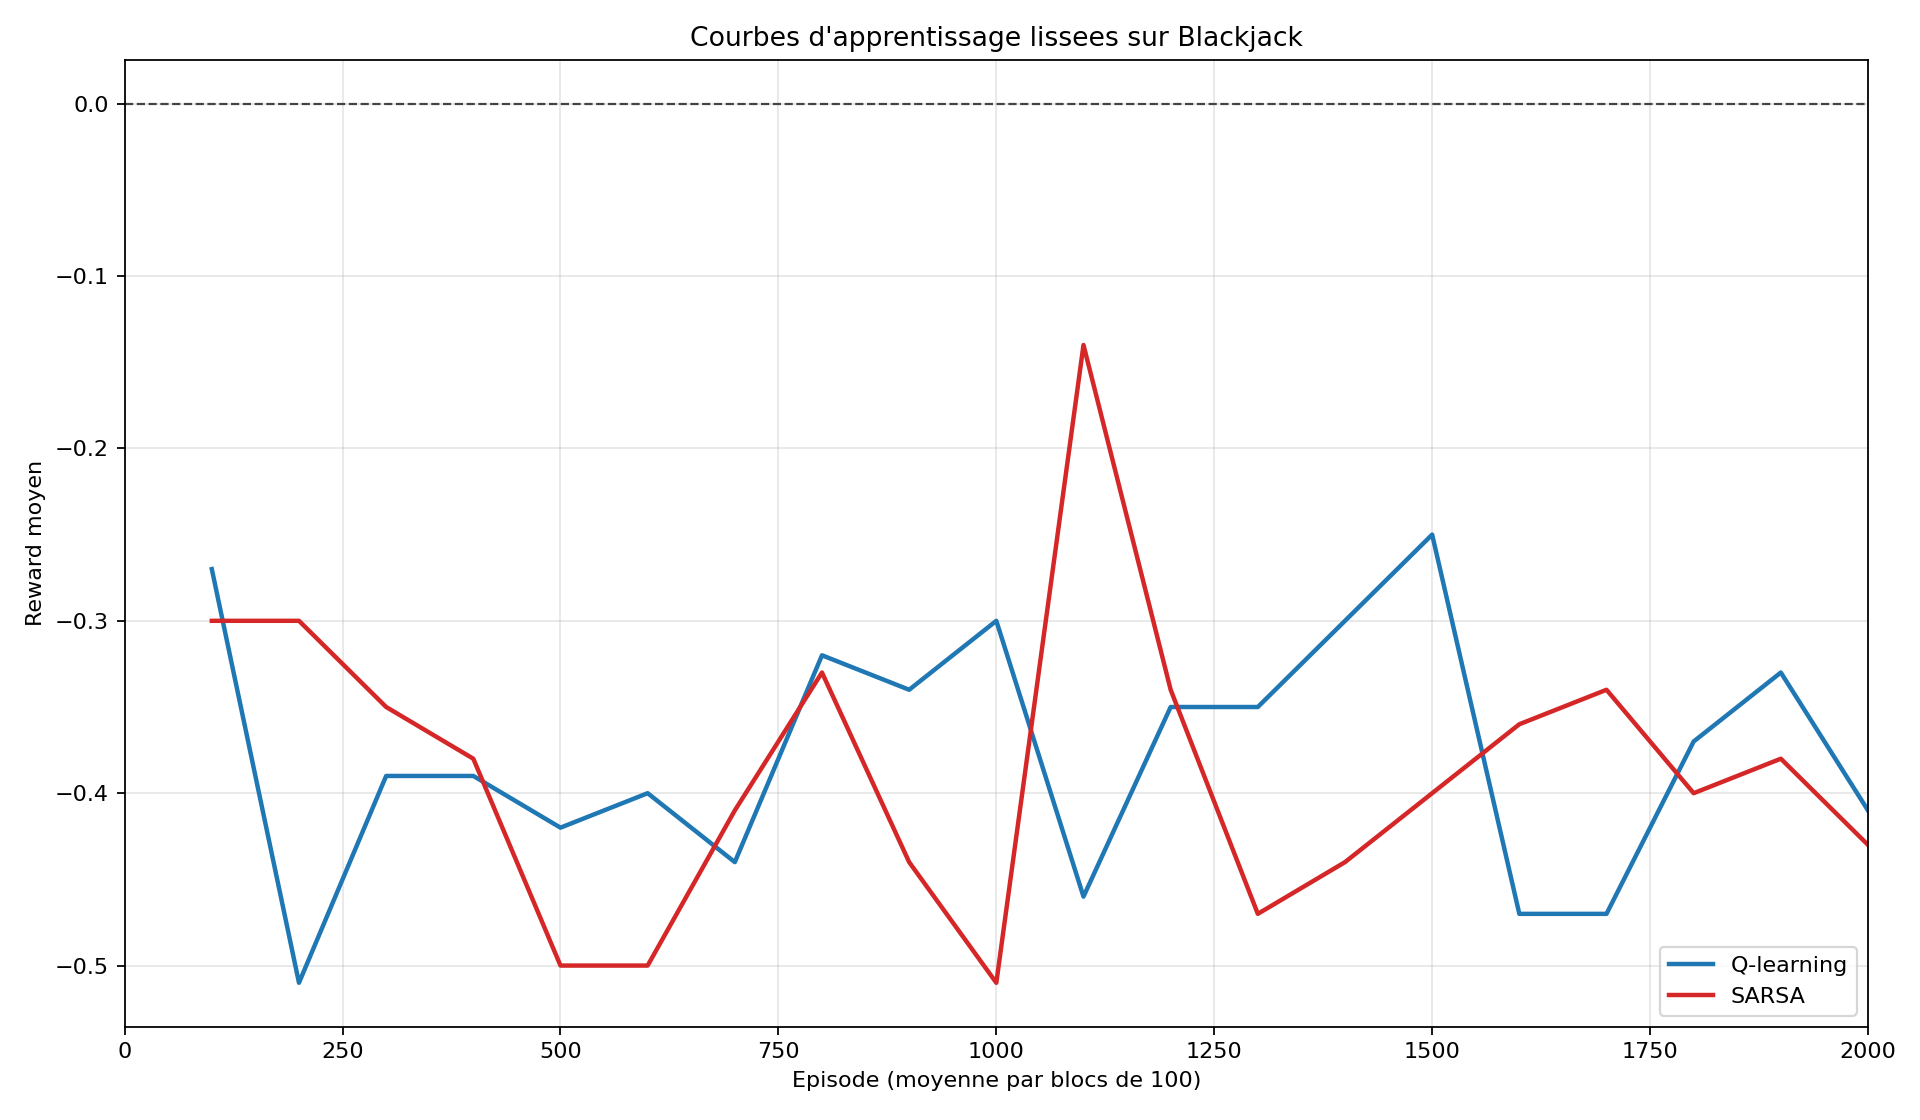
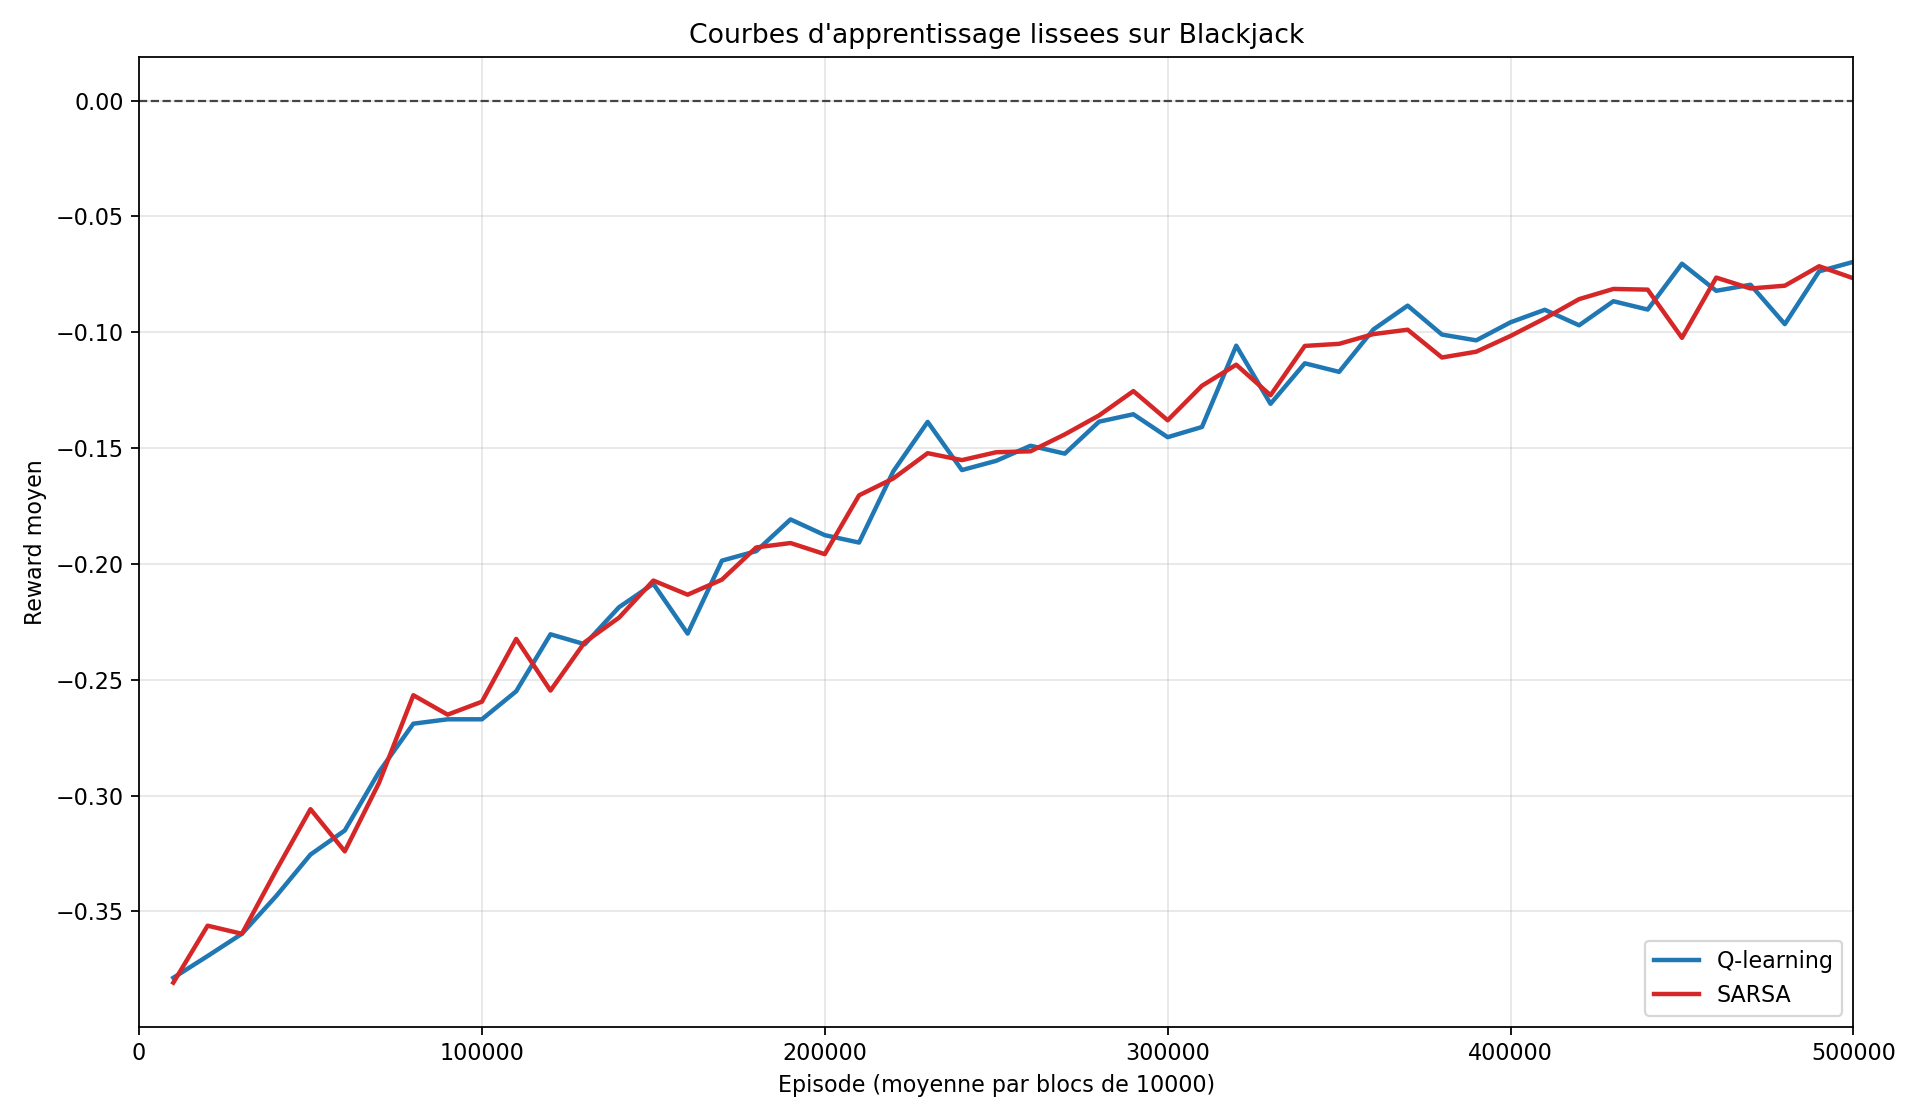
feat: lissage de la courbe d'apprentissae

diff --git a/blackjack_utils.py b/blackjack_utils.py
@@ -15,7 +15,7 @@ DEFAULT_EPSILON_DECAY = 0.999995
 DEFAULT_EPISODES = 500_000
 DEFAULT_EVAL_GAMES = 100_000
 DEFAULT_RECENT_METRICS_GAMES = 100
-DEFAULT_SMOOTHING_BLOCK_SIZE = 100
+DEFAULT_SMOOTHING_BLOCK_SIZE = 10000
 ACTION_COUNT = 2
 
 MODEL_DIR = Path(__file__).resolve().parent / "models"
